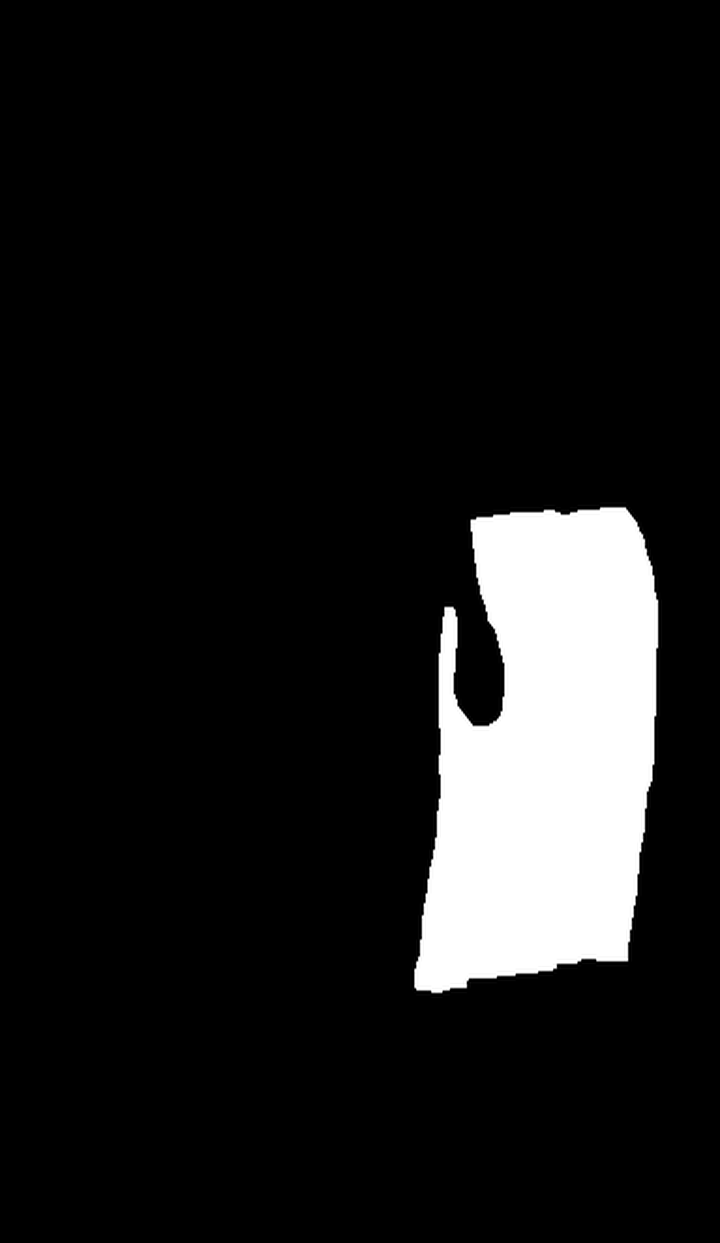
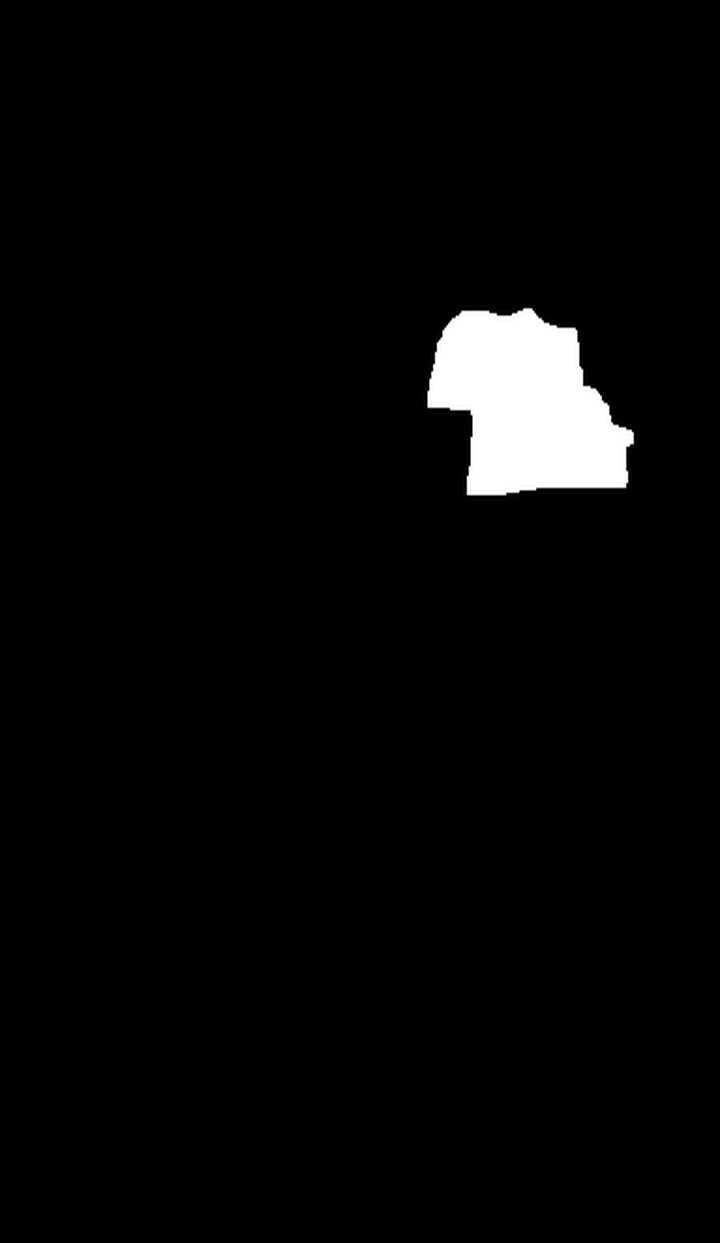
Masking DEMO

Changed region(s): [[0.55, 0.2446, 0.9167, 0.8254]]

diff --git a/masking_demo.py b/masking_demo.py
@@ -1,8 +1,6 @@
-# Masking/masking.py
-
 import numpy as np
 import cv2
-from PIL import Image, ImageDraw
+from PIL import Image
 from functools import wraps
 from time import time
 import mediapipe as mp
@@ -35,7 +33,7 @@ class Masking:
         }
 
     @timing
-    def get_mask(self, img, category='upper_body'):
+    def get_mask(self, img, category='full_body'):
         # Resize image to 384x512 for processing
         img_resized = img.resize((384, 512), Image.LANCZOS)
         img_np = np.array(img_resized)
@@ -53,32 +51,46 @@ class Masking:
             mask = np.isin(parse_array, [self.label_map["upper_clothes"], self.label_map["dress"]])
         elif category == 'lower_body':
             mask = np.isin(parse_array, [self.label_map["pants"], self.label_map["skirt"]])
-        elif category == 'dresses':
+        elif category == 'full_body':
             mask = np.isin(parse_array, [self.label_map["upper_clothes"], self.label_map["dress"], 
                                          self.label_map["pants"], self.label_map["skirt"]])
         else:
-            raise ValueError("Invalid category. Choose 'upper_body', 'lower_body', or 'dresses'.")
+            raise ValueError("Invalid category. Choose 'upper_body', 'lower_body', or 'full_body'.")
 
-        # Create arm mask
-        arm_mask = np.isin(parse_array, [self.label_map["left_arm"], self.label_map["right_arm"]])
-
-        # Create hand mask using MediaPipe
-        hand_mask = self.create_hand_mask(img_np)
-
-        # Combine arm and hand mask
-        arm_hand_mask = np.logical_or(arm_mask, hand_mask)
-
-        # Remove arms and hands from the mask
-        mask = np.logical_and(mask, np.logical_not(arm_hand_mask))
+        # Enhance mask for white clothing
+        white_mask = self.detect_white_clothing(img_np)
+        enhanced_mask = np.logical_or(mask, white_mask)
 
         # Refine the mask
-        mask = self.refine_mask(mask)
+        refined_mask = self.refine_mask(enhanced_mask)
+
+        # Remove hands from the mask
+        hand_mask = self.create_hand_mask(img_np)
+        refined_mask = np.logical_and(refined_mask, np.logical_not(hand_mask))
+
+        # Apply smoothing and feathering
+        final_mask = self.apply_smoothing_and_feathering(refined_mask)
 
         # Resize mask back to original image size
-        mask_pil = Image.fromarray(mask.astype(np.uint8) * 255)
+        mask_pil = Image.fromarray((final_mask * 255).astype(np.uint8))
         mask_pil = mask_pil.resize(img.size, Image.LANCZOS)
         
         return np.array(mask_pil)
+
+    def detect_white_clothing(self, image):
+        # Convert to LAB color space
+        lab_image = cv2.cvtColor(image, cv2.COLOR_RGB2LAB)
+        l_channel = lab_image[:,:,0]
+        
+        # Threshold the L channel to identify white areas
+        _, white_mask = cv2.threshold(l_channel, 220, 255, cv2.THRESH_BINARY)
+        
+        # Apply morphological operations to clean up the mask
+        kernel = np.ones((5,5), np.uint8)
+        white_mask = cv2.morphologyEx(white_mask, cv2.MORPH_CLOSE, kernel)
+        white_mask = cv2.morphologyEx(white_mask, cv2.MORPH_OPEN, kernel)
+        
+        return white_mask > 0
 
     def create_hand_mask(self, image):
         image_rgb = cv2.cvtColor(image, cv2.COLOR_BGR2RGB)
@@ -88,47 +100,62 @@ class Masking:
         
         if results.multi_hand_landmarks:
             for hand_landmarks in results.multi_hand_landmarks:
+                hand_polygon = []
                 for landmark in hand_landmarks.landmark:
                     x, y = int(landmark.x * image.shape[1]), int(landmark.y * image.shape[0])
-                    cv2.circle(hand_mask, (x, y), 15, 255, -1)
+                    hand_polygon.append([x, y])
+                
+                hand_polygon = np.array(hand_polygon, dtype=np.int32)
+                cv2.fillPoly(hand_mask, [hand_polygon], 255)
+        
+        # Dilate the hand mask to ensure complete coverage
+        kernel = np.ones((5,5), np.uint8)
+        hand_mask = cv2.dilate(hand_mask, kernel, iterations=2)
         
         return hand_mask > 0
 
     def refine_mask(self, mask):
         # Convert to uint8 for OpenCV operations
-        mask_uint8 = mask.astype(np.uint8) * 255
+        mask_uint8 = (mask * 255).astype(np.uint8)
         
         # Apply morphological operations to smooth the mask
         kernel = np.ones((5,5), np.uint8)
         mask_uint8 = cv2.morphologyEx(mask_uint8, cv2.MORPH_CLOSE, kernel)
         mask_uint8 = cv2.morphologyEx(mask_uint8, cv2.MORPH_OPEN, kernel)
         
-        # Find contours and keep only the largest one
+        # Find contours and keep only the largest ones
         contours, _ = cv2.findContours(mask_uint8, cv2.RETR_EXTERNAL, cv2.CHAIN_APPROX_SIMPLE)
-        if contours:
-            largest_contour = max(contours, key=cv2.contourArea)
-            mask_refined = np.zeros_like(mask_uint8)
-            cv2.drawContours(mask_refined, [largest_contour], 0, 255, -1)
-        else:
-            mask_refined = mask_uint8
+        contours = sorted(contours, key=cv2.contourArea, reverse=True)[:2]  # Keep top 2 contours
         
-        return mask_refined > 0  # Convert back to boolean mask
+        mask_refined = np.zeros_like(mask_uint8)
+        cv2.drawContours(mask_refined, contours, -1, 255, -1)
+        
+        return mask_refined > 0
 
-    @staticmethod
-    def extend_arm_mask(wrist, elbow, scale):
-        wrist = elbow + scale * (wrist - elbow)
-        return wrist
+    def apply_smoothing_and_feathering(self, mask, blur_radius=15, feather_amount=10):
+        # Apply Gaussian blur for smoothing
+        mask_float = mask.astype(float)
+        mask_blurred = cv2.GaussianBlur(mask_float, (blur_radius, blur_radius), 0)
+        
+        # Create a gradient for feathering
+        gradient = np.zeros_like(mask_float)
+        gradient = cv2.distanceTransform((1 - mask_float).astype(np.uint8), cv2.DIST_L2, 5)
+        gradient = gradient.astype(float) / feather_amount
+        gradient = np.clip(gradient, 0, 1)
+        
+        # Apply feathering
+        mask_feathered = mask_blurred * (1 - gradient)
+        
+        return mask_feathered
 
     @staticmethod
     def hole_fill(img):
-        img = np.pad(img[1:-1, 1:-1], pad_width = 1, mode = 'constant', constant_values=0)
         img_copy = img.copy()
-        mask = np.zeros((img.shape[0] + 2, img.shape[1] + 2), dtype=np.uint8)
-
-        cv2.floodFill(img, mask, (0, 0), 255)
-        img_inverse = cv2.bitwise_not(img)
-        dst = cv2.bitwise_or(img_copy, img_inverse)
-        return dst
+        h, w = img.shape[:2]
+        mask = np.zeros((h+2, w+2), np.uint8)
+        cv2.floodFill(img_copy, mask, (0,0), 255)
+        filled_image = cv2.bitwise_not(img_copy)
+        return cv2.bitwise_or(img, filled_image)
 
 import os
 from PIL import Image
@@ -141,7 +168,7 @@ if __name__ == "__main__":
     input_image = os.path.join(image_folder, "GIRL.jpeg")
     output_mask = os.path.join(image_folder, "output_smooth_mask1.png")
     output_masked = os.path.join(image_folder, "output_masked_image1.png")
-    category = "upper_body"  # Change this to "upper_body", "lower_body", or "dresses" as needed
+    category = "dresses"  # Change this to "upper_body", "lower_body", or "dresses" as needed
     
     # Load the input image
     input_img = Image.open(input_image)
